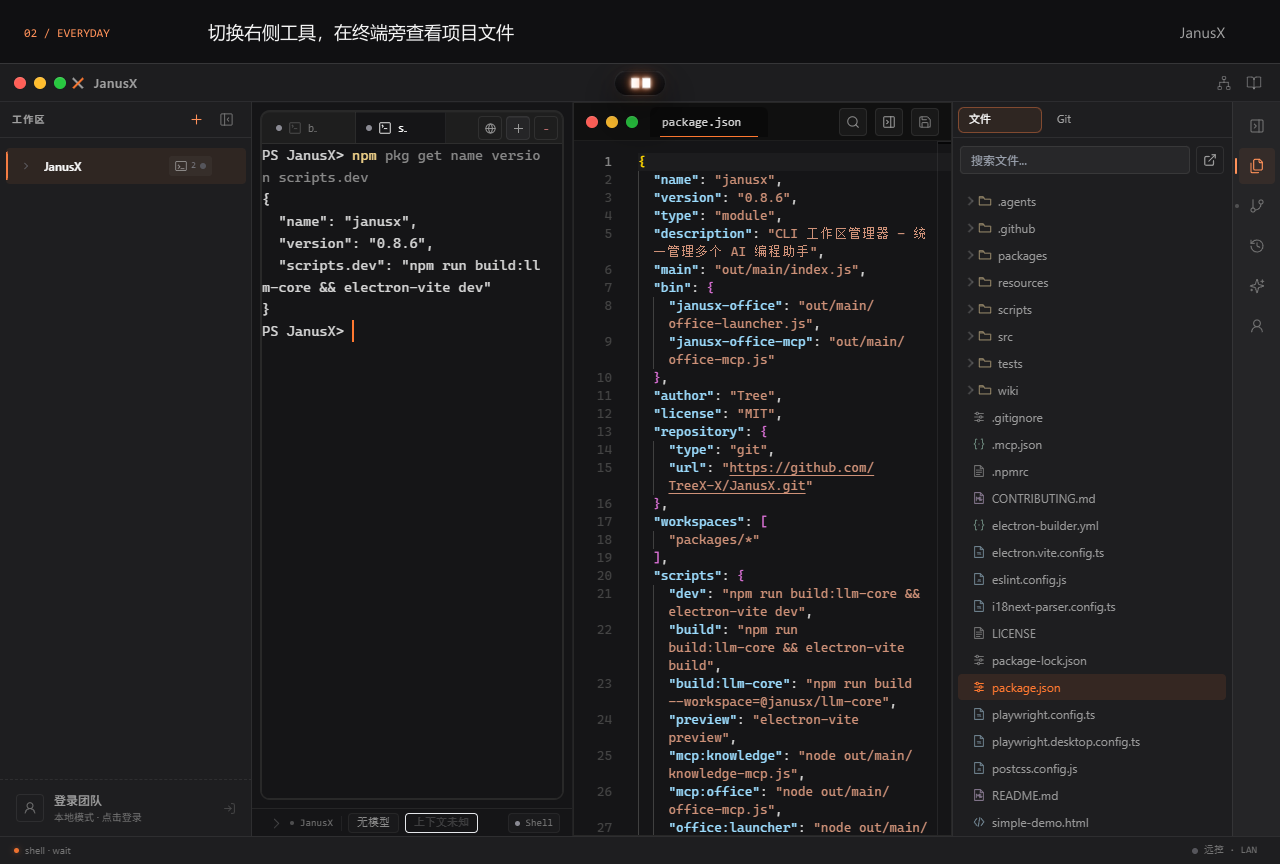
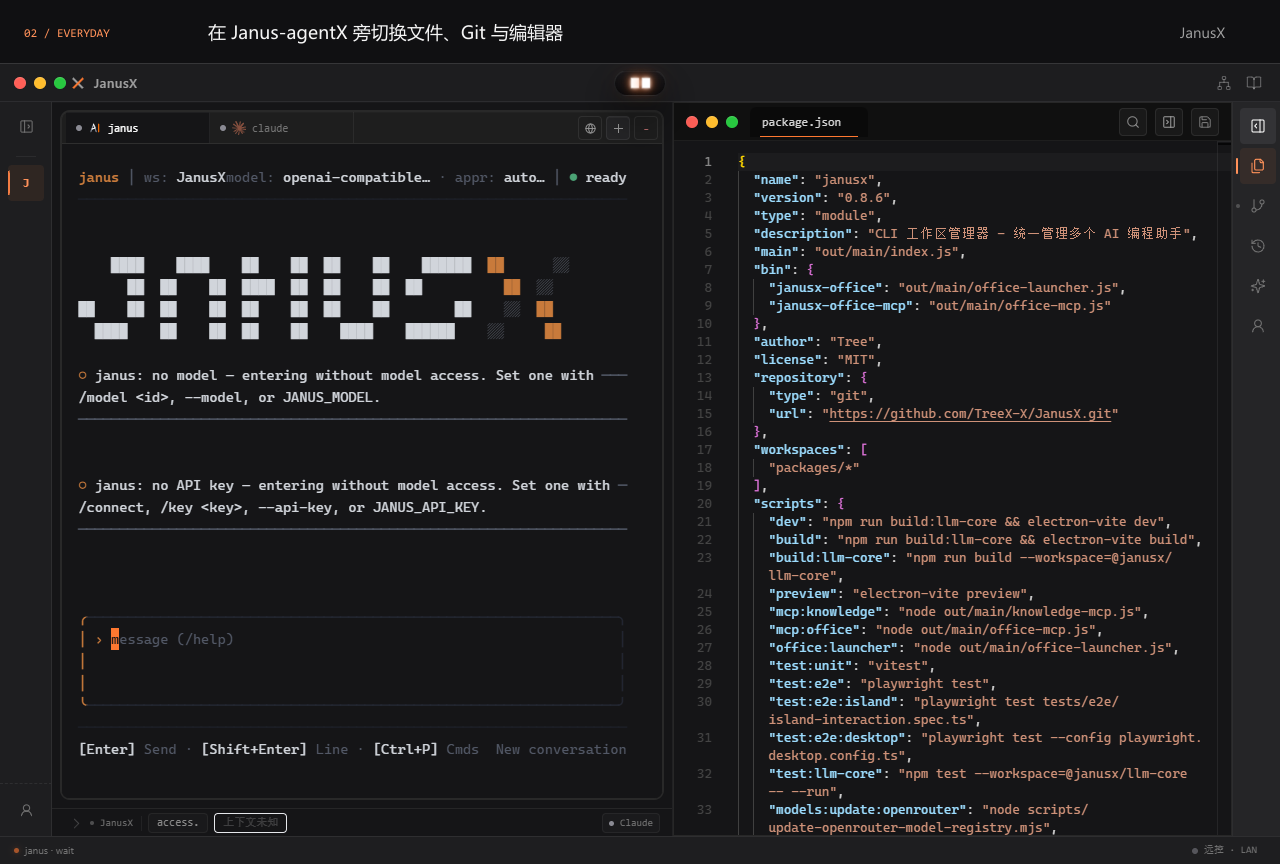
docs: show Janus and Claude in workspace demonstrations
Note: .agents/notes/implemented/feature/2026-09-18-download-page.md

diff --git a/index.html b/index.html
@@ -57,18 +57,18 @@
   </section>
   <section id="tour" class="product-tour" aria-labelledby="tour-heading">
     <div class="section-heading"><div><p class="eyebrow"><span>03</span> EVERYDAY WORKSPACE</p><h2 id="tour-heading">先看工作流，再开始工作</h2></div></div>
-    <p class="tour-intro">多个终端并排工作，文件和 Git 随手打开。以下演示录自真实 JanusX 桌面应用，使用 JanusX 自身的源码项目。</p>
+    <p class="tour-intro">多个 CLI 并排工作，文件和 Git 随手打开。以下演示录自真实 JanusX 桌面应用，使用 JanusX 自身的源码项目，展示本地界面与操作，未运行模型任务。</p>
     <figure class="tour-shot">
-      <figcaption><span class="eyebrow">WORKSPACE &amp; SPLIT PANES</span><h3>拖一下，让两个终端并肩工作</h3><p>标签拖到边缘即可上下或左右分屏，拖动分隔线调整比例，拖到另一面板中央合并回标签。左侧工作区还支持项目切换、排序与分组。</p></figcaption>
-      <a href="assets/terminal-split.gif" aria-label="查看终端分屏完整演示"><img src="assets/terminal-split.png" alt="拖动终端标签分屏，左右查看提交记录和项目命令，再调整面板比例" width="1280" height="864" loading="lazy" decoding="async"></a>
+      <figcaption><span class="eyebrow">WORKSPACE &amp; SPLIT PANES</span><h3>Janus-agentX 与 Claude Code，并排打开</h3><p>左侧 Janus-agentX、右侧 Claude Code，展示两个 CLI 的真实启动界面。标签拖到边缘即可上下或左右分屏，拖动分隔线调整比例，拖到另一面板中央合并回标签。左侧工作区还支持项目切换、排序与分组。</p></figcaption>
+      <a href="assets/terminal-split.gif" aria-label="查看终端分屏完整演示"><img src="assets/terminal-split.png" alt="拖动标签形成左侧 Janus-agentX、右侧 Claude Code 的终端分屏，再调整面板比例" width="1280" height="864" loading="lazy" decoding="async"></a>
       <button class="tour-play" type="button" data-gif="assets/terminal-split.gif" data-still="assets/terminal-split.png" aria-pressed="false" hidden>播放分屏演示</button>
     </figure>
     <figure class="tour-shot">
-      <figcaption><span class="eyebrow">RIGHT SIDEBAR &amp; EDITOR</span><h3>右侧工具栏，跟着当前项目走</h3><p>文件、Git、检查点、知识助手和个人画像集中在右侧栏。面板可切换、调整宽度和收起；编辑器支持独立浮窗与嵌入主窗口，Markdown 可双栏预览。</p></figcaption>
-      <a href="assets/right-sidebar.gif" aria-label="查看右侧工具栏完整演示"><img src="assets/right-sidebar.png" alt="切换文件与 Git 面板，将 package.json 嵌入终端旁阅读" width="1280" height="864" loading="lazy" decoding="async"></a>
+      <figcaption><span class="eyebrow">RIGHT SIDEBAR &amp; EDITOR</span><h3>在 Janus-agentX 旁，打开项目工具</h3><p>Janus-agentX 保留在终端中，右侧切换文件和 Git，再将编辑器嵌入主窗口。右侧栏还提供检查点、知识助手和个人画像；面板可调整宽度和收起，Markdown 可双栏预览。</p></figcaption>
+      <a href="assets/right-sidebar.gif" aria-label="查看右侧工具栏完整演示"><img src="assets/right-sidebar.png" alt="保留 Janus-agentX，切换文件与 Git 面板，将 package.json 嵌入 CLI 旁阅读" width="1280" height="864" loading="lazy" decoding="async"></a>
       <button class="tour-play" type="button" data-gif="assets/right-sidebar.gif" data-still="assets/right-sidebar.png" aria-pressed="false" hidden>播放工具栏演示</button>
     </figure>
-    <p class="tour-intro">右键工作区打开「运行配置…」，管理项目的分析、测试与启动入口。终端可选择 Shell、Janus、Claude、Codex、OpenCode 或 Pi；外部 CLI 需要对应工具和登录配置。</p>
+    <p class="tour-intro">右键工作区打开「运行配置…」，管理项目的分析、测试与启动入口。终端可选择 Shell、Janus、Claude、Codex、OpenCode 或 Pi。Janus-agentX、Claude Code 等 CLI 需先安装对应工具，执行模型任务前还需完成各自的登录或模型配置。</p>
     <a class="text-link" href="#downloads">选择 Windows 安装包 ↑</a>
   </section>
   <section id="experiments" class="product-tour" aria-labelledby="experiments-heading">

diff --git a/.agents/notes/implemented/feature/2026-09-18-download-page.md b/.agents/notes/implemented/feature/2026-09-18-download-page.md
@@ -18,7 +18,9 @@ Reusing the existing feature-led page avoids layout maintenance, but leaves the 
 
 ## Consequences
 
-The page prioritizes package selection, followed by installation steps, core functionality and explicitly experimental capabilities. Six GIF recordings show terminal splitting, right-sidebar tools, the standalone Janus CLI, roundtable preparation, blueprint browsing and knowledge review. The recordings use an isolated profile and an actual source checkout; manually authored blueprint and knowledge content is identified in the copy. No model-generated result is represented by the preparation recordings.
+The page prioritizes package selection, followed by installation steps, core functionality and explicitly experimental capabilities. Six GIF recordings show terminal splitting, right-sidebar tools, the standalone Janus CLI, roundtable preparation, blueprint browsing and knowledge review. The split recording uses the desktop Janus and Claude presets with Janus-agentX on the left and Claude Code on the right. The sidebar recording keeps Janus-agentX beside the file and Git tools and embedded editor. The copy states that these CLIs require installation and their own login or model configuration for model tasks.
+
+The recordings use an isolated profile and an actual source checkout; manually authored blueprint and knowledge content is identified in the copy. No model-generated result is represented by the preparation recordings. Temporary Claude configuration, credential isolation and terminal color settings belong to the application repository's [product recording Note](https://github.com/TreeX-X/JanusX/blob/main/.agents/notes/implemented/feature/2026-09-18-product-tour.md).
 
 Static PNG posters keep initial loading light and motion optional. Each play button loads its GIF on demand and returns to the poster when stopped. Failed GIF loading restores the poster and offers retry. No JavaScript leaves the poster and full-size GIF link available; reduced-motion preferences get the same static default. Compared with static-only images, GIF communicates drag and navigation behavior while remaining compatible with README images. Branch-local assets keep the site independent of application-branch asset URLs, at the cost of copying the six GIF/poster pairs from `wiki/assets` when the interface changes. All images have dimensions, descriptive alternative text and lazy loading.
 
